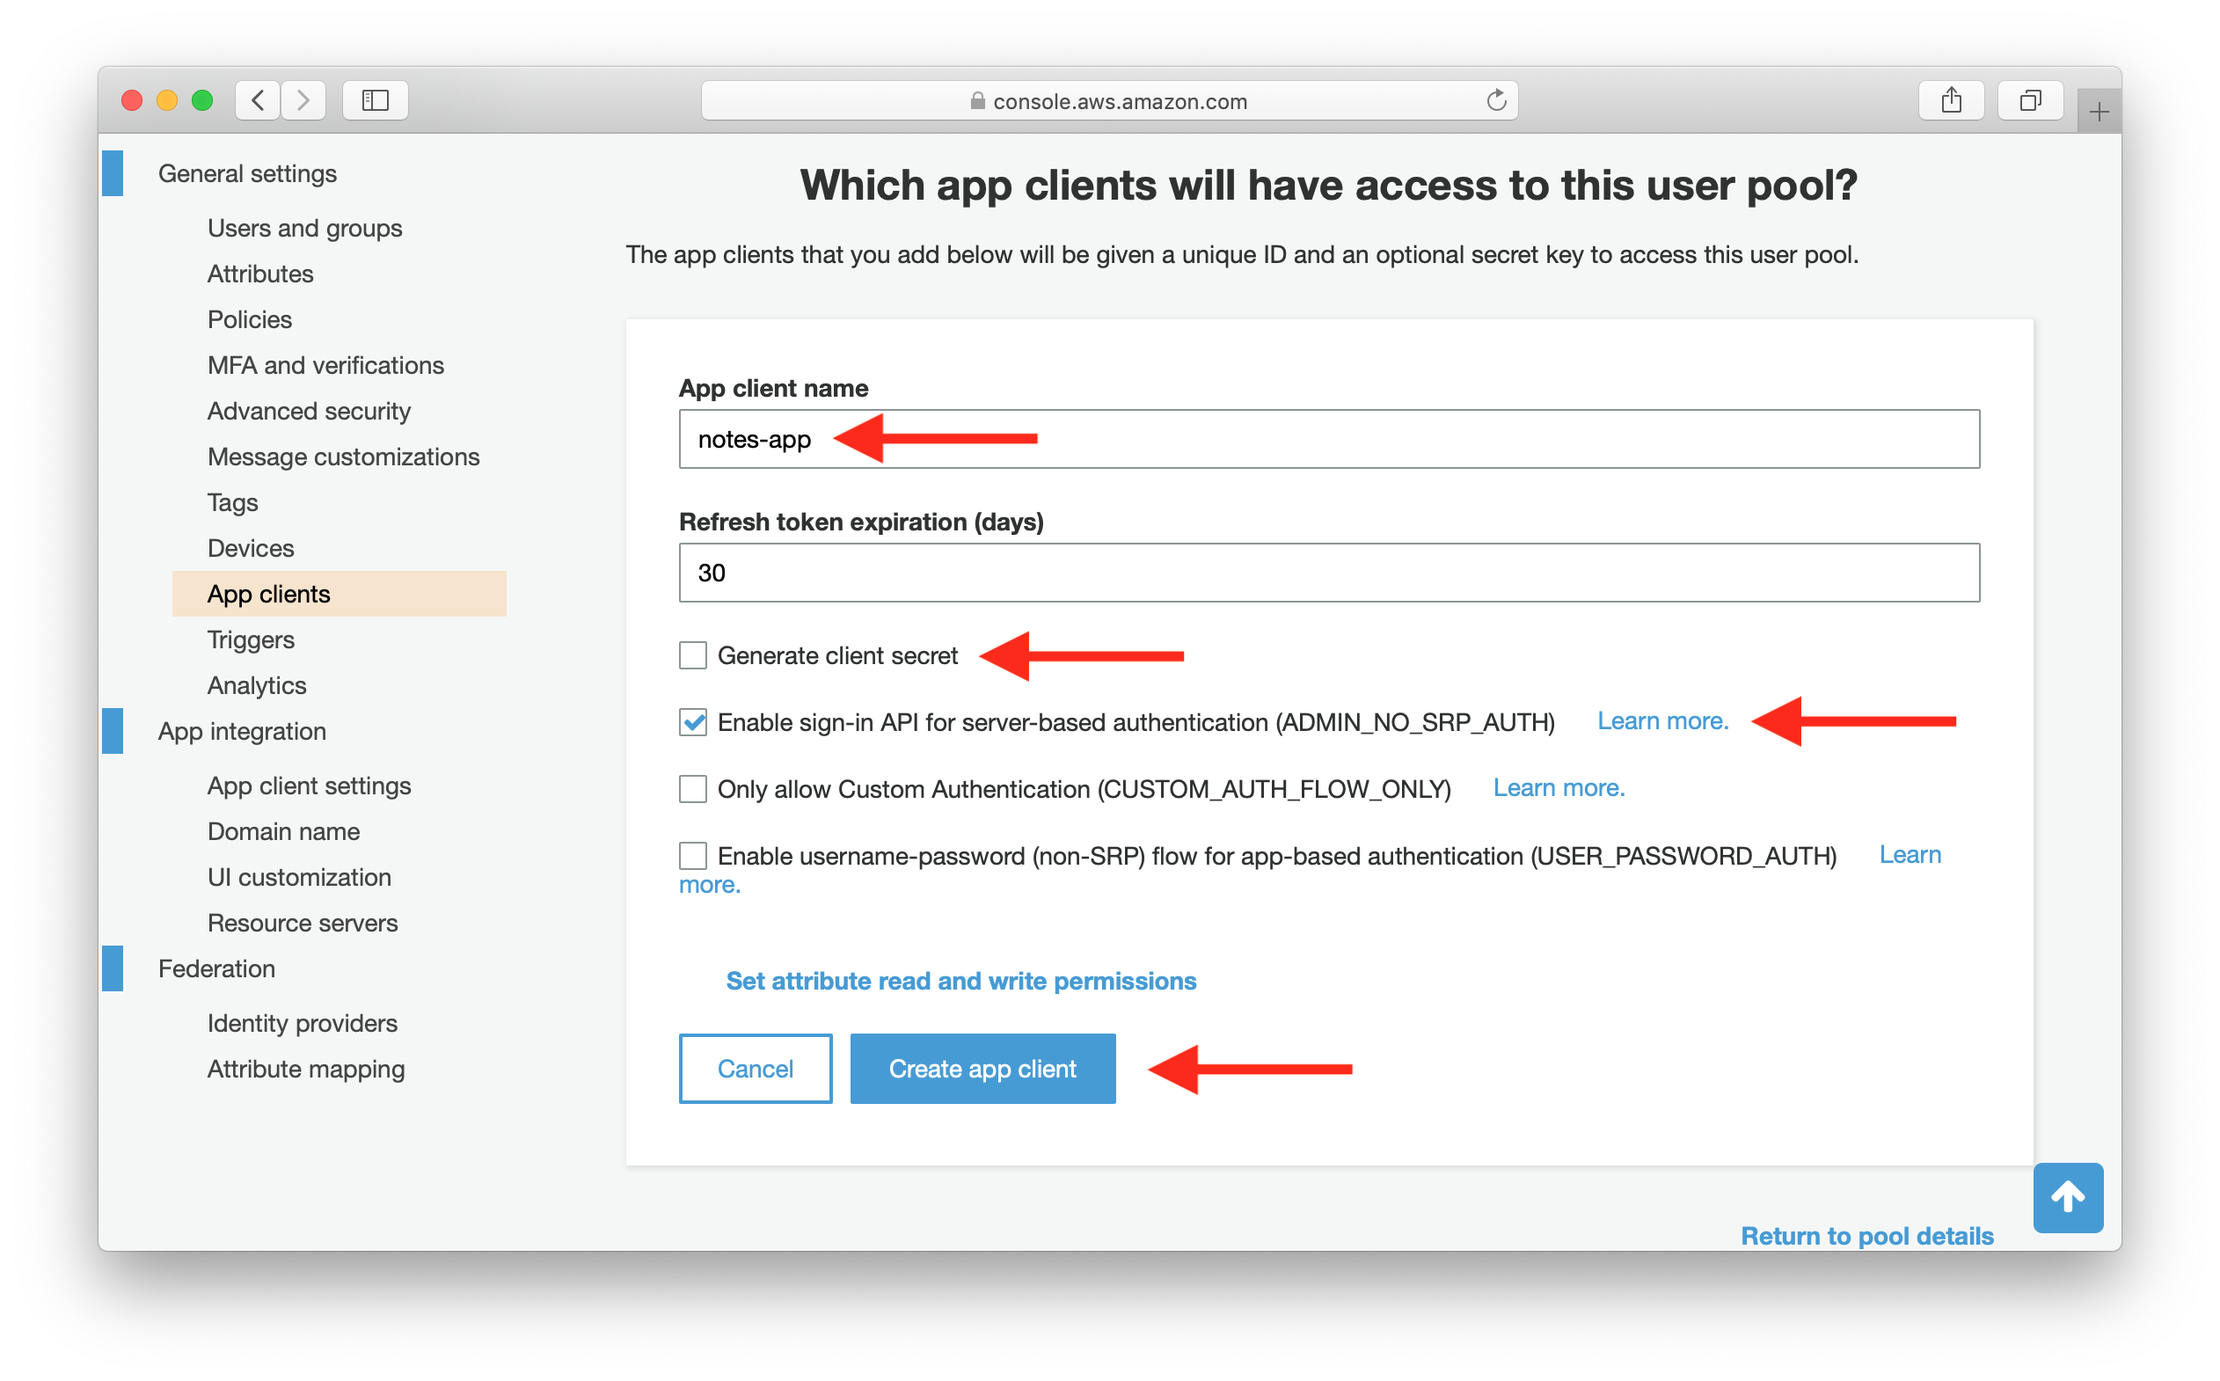
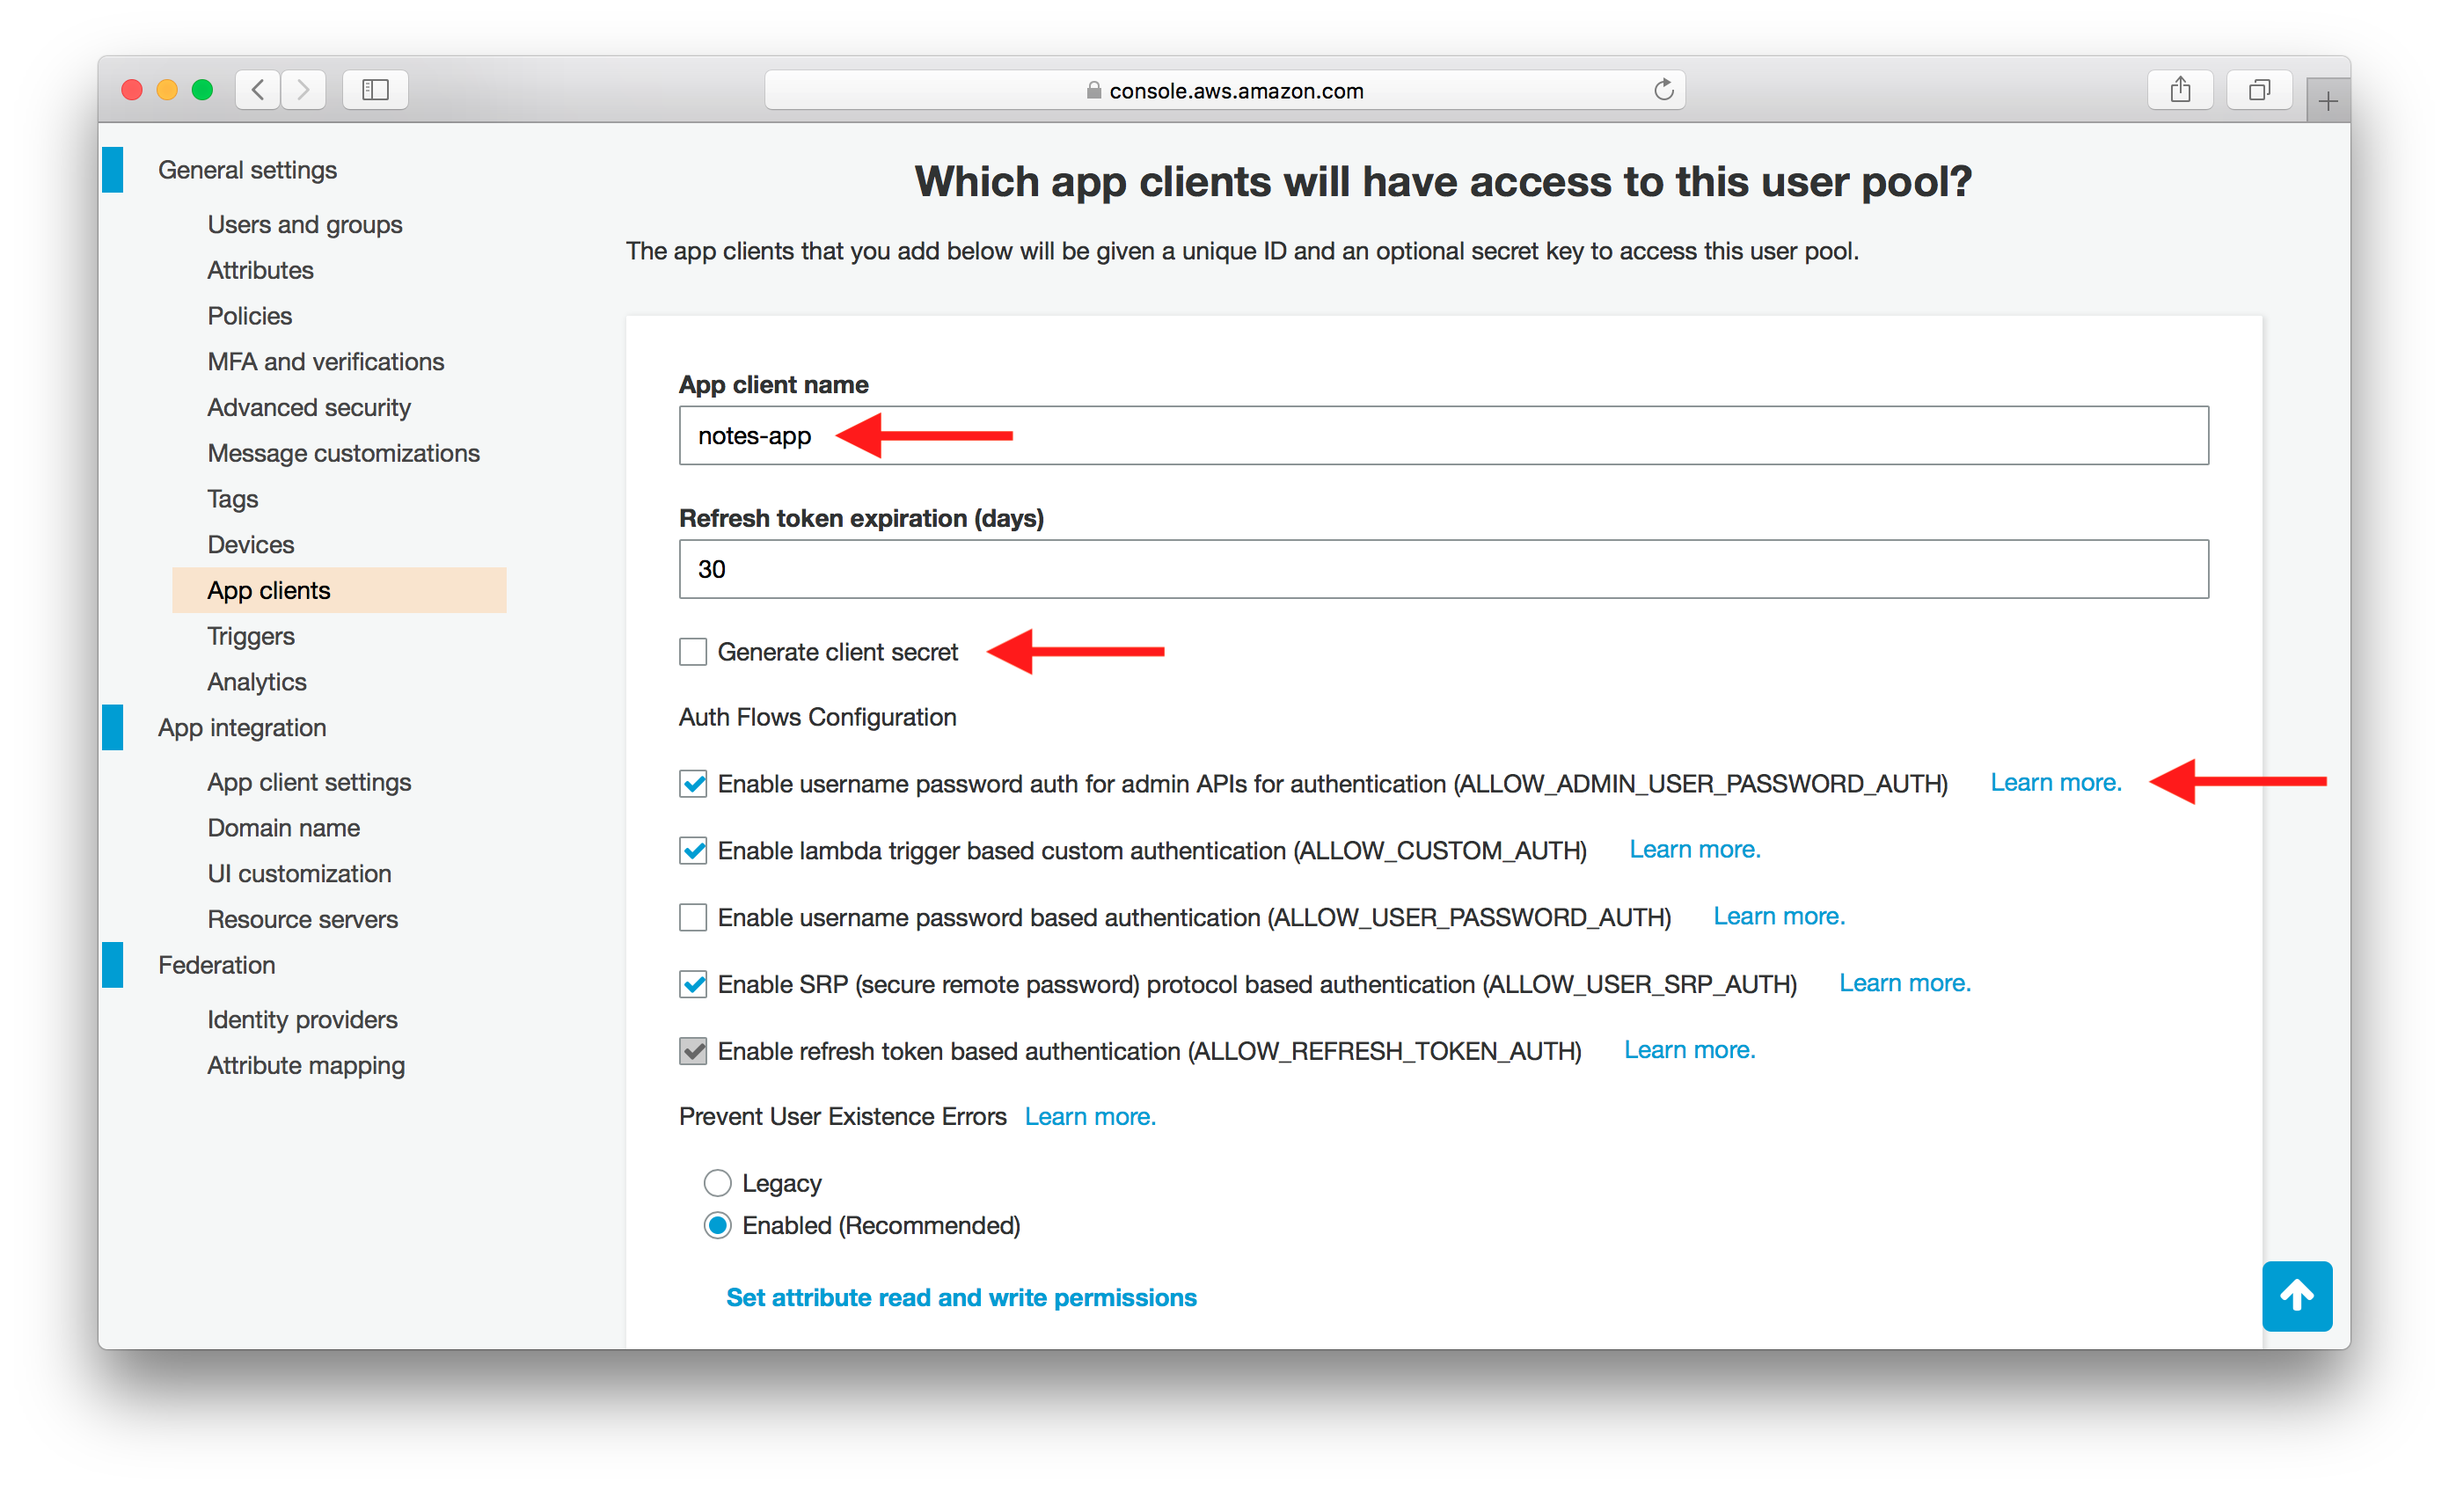
Update Cognito user pool screenshot and values for auth flow

diff --git a/_chapters/create-a-cognito-user-pool.md b/_chapters/create-a-cognito-user-pool.md
@@ -69,9 +69,13 @@ Select **Add an app client**.
 Enter **App client name**, un-select **Generate client secret**, select **Enable sign-in API for server-based authentication**, then select **Create app client**.
 
 - **Generate client secret**: user pool apps with a client secret are not supported by the JavaScript SDK. We need to un-select the option.
-- **Enable sign-in API for server-based authentication**: required by AWS CLI when managing the pool users via command line interface. We will be creating a test user through the command line interface in the next chapter.
+- **Enable username password auth for admin APIs for authentication**: required by AWS CLI when managing the pool users via command line interface. We will be creating a test user through the command line interface in the next chapter.
 
 ![Fill Cognito User Pool App Info Screenshot](/assets/cognito-user-pool/fill-user-pool-app-info.png)
+
+Now select **Create app client**.
+
+![Fill Cognito User Pool Create App Client Screenshot](/assets/cognito-user-pool/fill-user-pool-create-app-client.png)
 
 Your app client has been created. Take note of the **App client id** which will be required in the later chapters.
 
